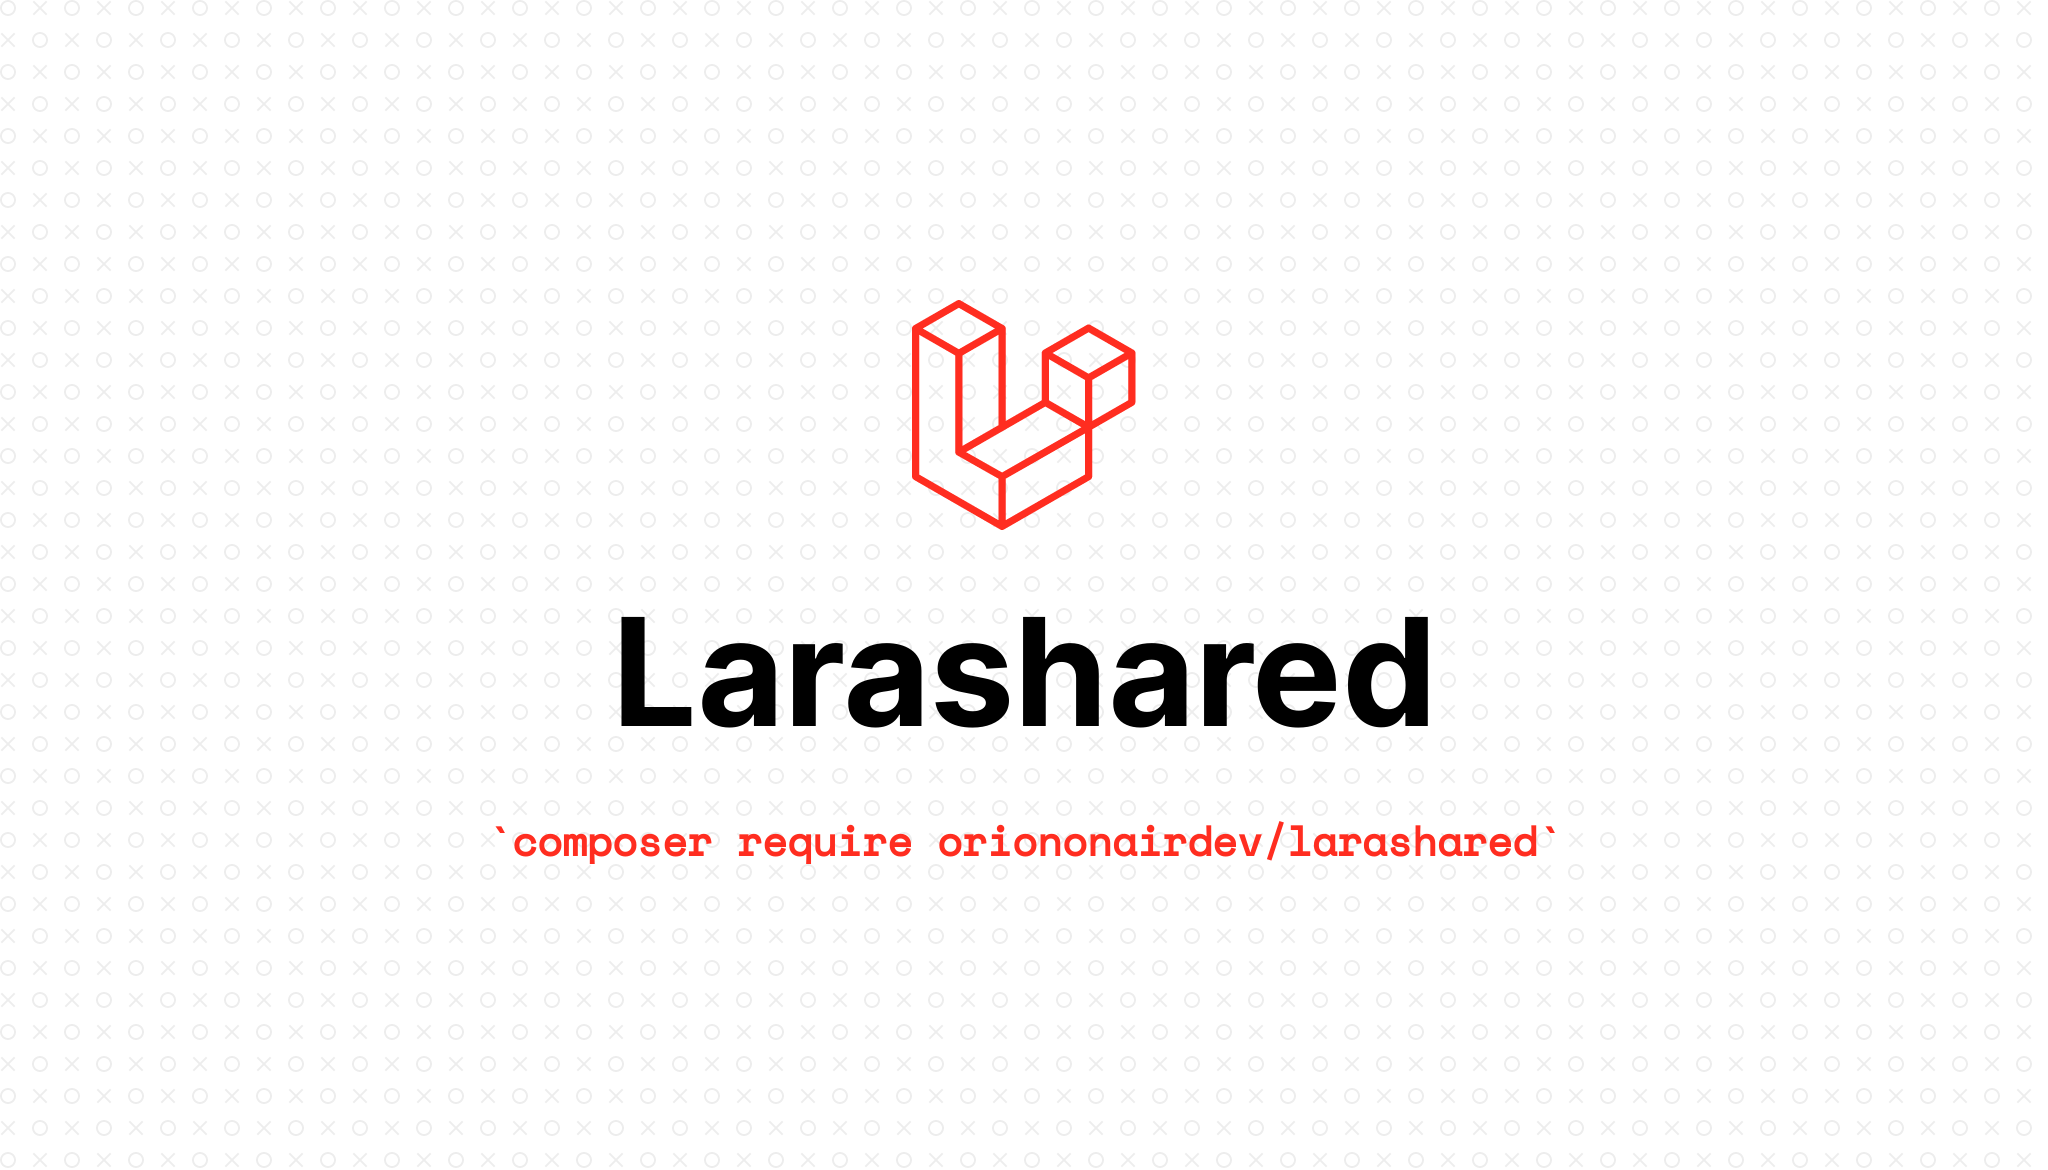
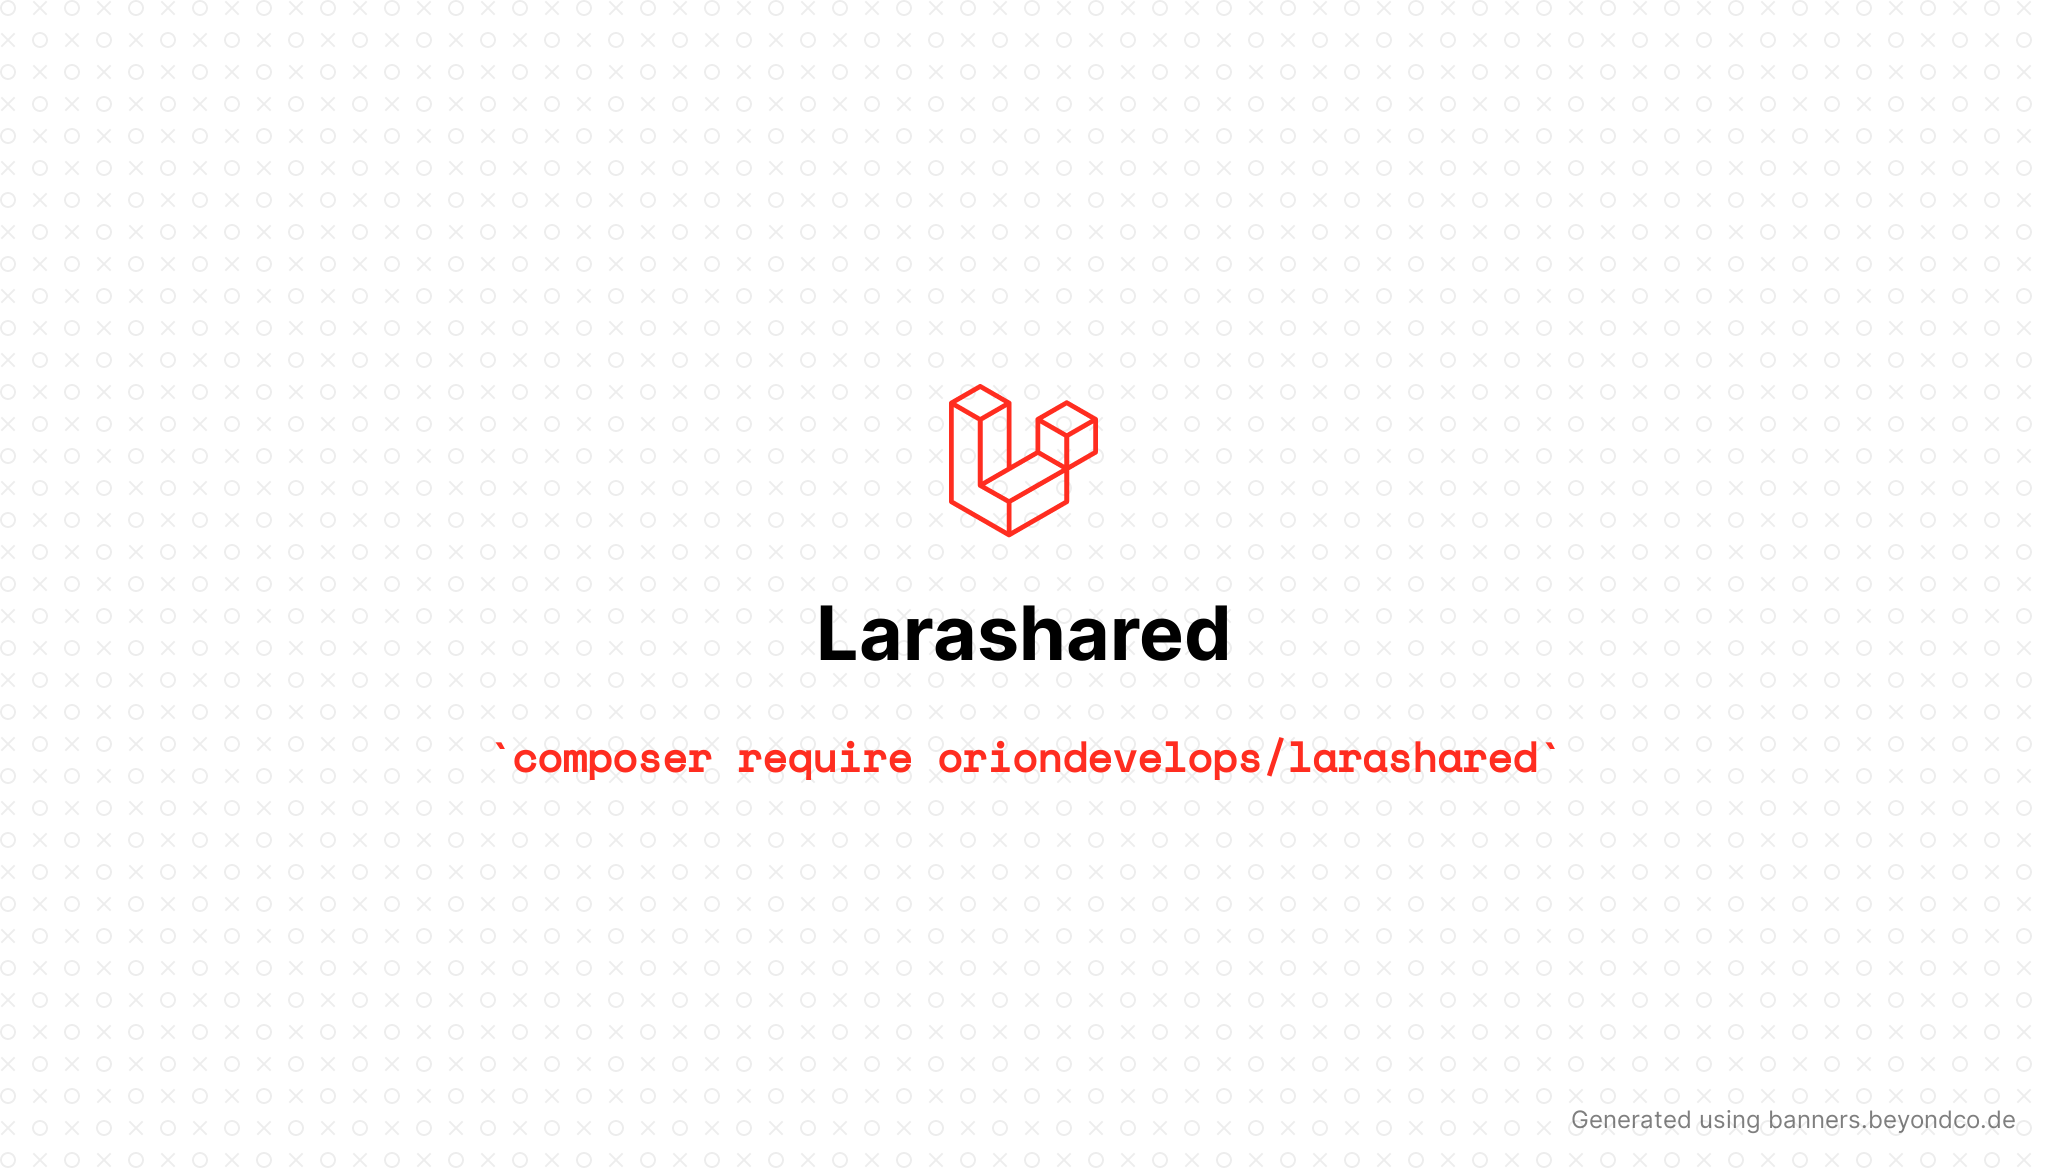
Update README.md

diff --git a/src/Http/Controllers/API/ResponseController.php b/src/Http/Controllers/API/ResponseController.php
@@ -10,11 +10,11 @@ class ResponseController extends Controller
     /**
      * Return success response.
      *
-     * @param $result
+     * @param  string  $result
      * @param $message
      * @return JsonResponse
      */
-    public function sendSuccess($result, $message): JsonResponse
+    public function sendSuccess(string $result, $message): JsonResponse
     {
         $response = [
             'success' => true,
@@ -28,12 +28,12 @@ class ResponseController extends Controller
     /**
      * Return error response.
      *
-     * @param $error
+     * @param  string  $error
      * @param  array  $errorMessages
      * @param  int  $code
      * @return JsonResponse
      */
-    public function sendError($error, array $errorMessages = [], int $code = 404): JsonResponse
+    public function sendError(string $error, array $errorMessages = [], int $code = 404): JsonResponse
     {
         $response = [
             'success' => false,

diff --git a/src/LarasharedServiceProvider.php b/src/LarasharedServiceProvider.php
@@ -27,7 +27,7 @@ class LarasharedServiceProvider extends PackageServiceProvider
                         $installCommand->call('larashared:token');
                         $installCommand->info('Thank you very much for installing this package!');
                     })
-                    ->askToStarRepoOnGitHub('oriononairdev/larashared');
+                    ->askToStarRepoOnGitHub('oriondevelops/larashared');
             });
     }
 }

diff --git a/README.md b/README.md
@@ -1,23 +1,26 @@
 ![Larashared](larashared.png)
 
 ---
-
 # Larashared
 
-[![Latest Version on Packagist](https://img.shields.io/packagist/v/oriononairdev/larashared.svg?style=flat-square)](https://packagist.org/packages/oriononairdev/larashared)
-[![Total Downloads](https://img.shields.io/packagist/dt/oriononairdev/larashared.svg?style=flat-square)](https://packagist.org/packages/oriononairdev/larashared)
+[![Latest Version on Packagist](https://img.shields.io/packagist/v/oriondevelops/larashared.svg?style=flat-square)](https://packagist.org/packages/oriondevelops/larashared)
+[![Total Downloads](https://img.shields.io/packagist/dt/oriondevelops/larashared.svg?style=flat-square)](https://packagist.org/packages/oriondevelops/larashared)
 
-Larashared aims to be a guide and a helper api in shared hosting environments where ssh access is not available.
+#### Shared Hosting Deployment Management for Laravel
+
+Larashared is a deployment guide and a helper api in shared hosting environments where ssh access is not available.
+
+It allows using basic Artisan commands through an API by sending post requests with a bearer token for authorization. The package can be installed via composer and the configuration file can be published to modify the API path and the token. The package has several endpoints for different Artisan commands like optimizing, enabling/disabling maintenance mode, cache operations, etc.
 
 ## Disclaimer
 
-Deploying laravel on shared hosting is not recommended. Check out this article by Pardeep Kumar:
+Deploying Laravel on shared hosting is not recommended. Check out this article by Pardeep Kumar:
 
 [Here’s Why You Should Stay Away From Laravel Shared Hosting](https://www.cloudways.com/blog/stay-away-from-laravel-shared-hosting/)
 
 ## Support me
 
-[!["Buy Me A Coffee"](https://www.buymeacoffee.com/assets/img/custom_images/orange_img.png)](https://www.buymeacoffee.com/oriononairdev)  
+[!["Buy Me A Coffee"](https://www.buymeacoffee.com/assets/img/custom_images/orange_img.png)](https://www.buymeacoffee.com/oriondevelops)  
 or send your love & energy <3
 
 ## Installation
@@ -25,7 +28,7 @@ or send your love & energy <3
 You can install the package via composer:
 
 ```bash
-composer require oriononairdev/larashared
+composer require oriondevelops/larashared
 ```
 
 You can publish the config file with:
@@ -199,7 +202,7 @@ If you plan to seed your application, make sure dev dependencies like `fakerphp/
 
 ## Credits
 
-- [Mücahit Uğur](https://github.com/oriononairdev)
+- [Mücahit Uğur](https://mucahitugur.com)
 
 ## License
 
